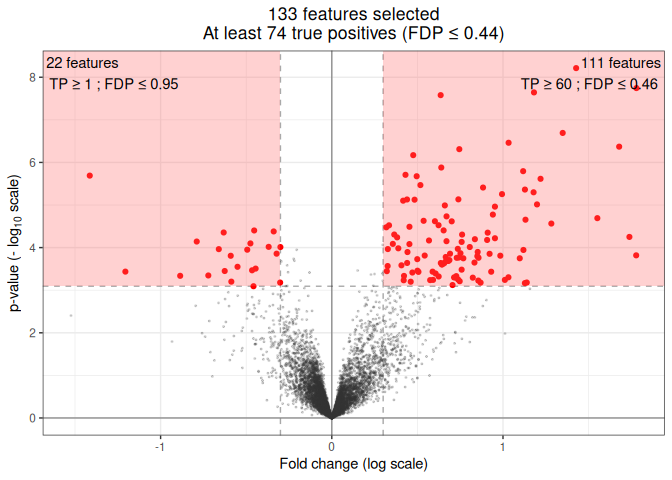
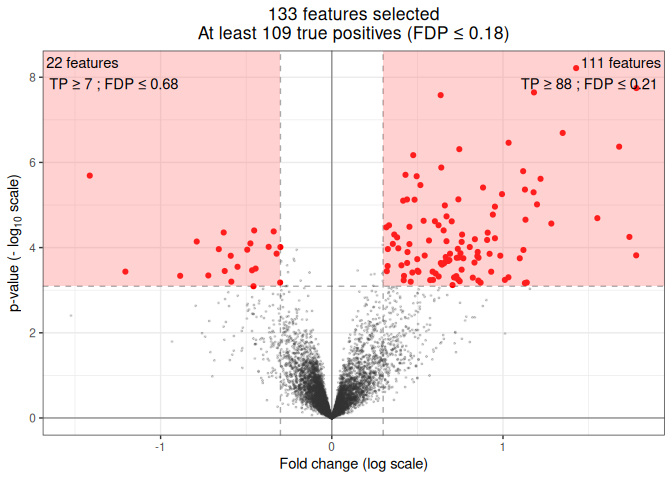
Fix error introduced during local tests

diff --git a/README.md b/README.md
@@ -50,7 +50,7 @@ Then we fit the method by with `B=1000` permutations, and with a target
 risk `alpha = 0.1`.
 
 ``` r
-res <- fit(obj, alpha = 0.1, B = 0)
+res <- fit(obj, alpha = 0.1, B = 1000)
 ```
 
 ### Output 1 - Post hoc bound for a subset of genes
@@ -61,14 +61,14 @@ $10^{-3}$.
 ``` r
 S <- which(pValues(res) < 1e-3)
 predict(res, S)
-#>         TP        FDP 
-#> 85.0000000  0.4720497
+#>          TP         FDP 
+#> 129.0000000   0.1987578
 ```
 
 The method ensures with $1-\alpha = 90\%$ confidence that there are at
-least 85 truly differentially expressed genes (true positives, TP) among
-these 161 genes, corresponding to a false discovery proportion (FDP)
-less than 0.48.
+least 129 truly differentially expressed genes (true positives, TP)
+among these 161 genes, corresponding to a false discovery proportion
+(FDP) less than 0.2.
 
 ### Output 2 - Confidence curves for “top-k” feature lists
 
